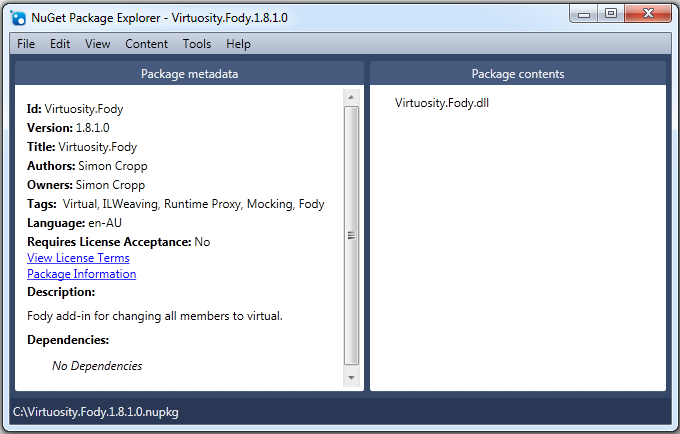
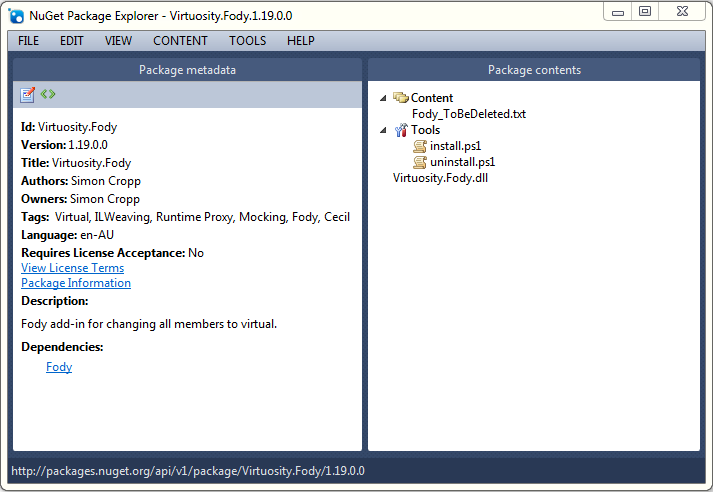
more doco

Changed region(s): [[0.0, 0.0, 1.0, 1.0], [0.0618, 0.8387, 0.2162, 0.8687]]

diff --git a/DeployingAddinsAsNugets.md b/DeployingAddinsAsNugets.md
@@ -3,12 +3,17 @@
 Add-ins can be deployed through [NuGet](http://nuget.org/) packages. 
 
  * The package should contain one assembly in the root of the package. 
- * The name of the package and the name of the assembly should be the same and be suffixed with ".Fody". For example
- * The package should not have any nuget dependencies. (nuget dependencies are not supported yet)
+ * The name of the package and the name of the assembly should be the same and be suffixed with ".Fody". For example the [Virtuosity nuget package](https://nuget.org/packages/Virtuosity.Fody/) is named `Virtuosity.Fody` and contains the assembly `Virtuosity.Fody.dll`.
+ * The package should have a single dependency on **only** the [Fody nuget package](https://nuget.org/packages/Fody/).  **Do not add any other nuget dependencies as Fody does not currently support loading these files at compile time.**
+ * The nuget packages is responsible for adding and removing itself from the `FodyWeavers.xml` (See [HowToWriteAnAddin](HowToWriteAnAddin)) during install and uninstall of the nuget package. See the [nuget addin templates](https://github.com/Fody/Fody/tree/master/WeaverNugetTemplates) for an example of how to achieve this 
+ * If the package has no project level files you may need to hack nuget to force it treat your package as *project level*. See the [nuget addin templates](https://github.com/Fody/Fody/tree/master/WeaverNugetTemplates) for an example of how to achieve this 
 
-For example
+Here is the contents of the  [Virtuosity nuget package](https://nuget.org/packages/Virtuosity.Fody/)
 
 ![VirtuosityNuget.png](VirtuosityNuget.png)
 
 
-See [AddinSearchPaths](AddinSearchPaths)
+See Also
+
+ * [AddinSearchPaths](AddinSearchPaths)
+ *  [HowToWriteAnAddin](HowToWriteAnAddin)
